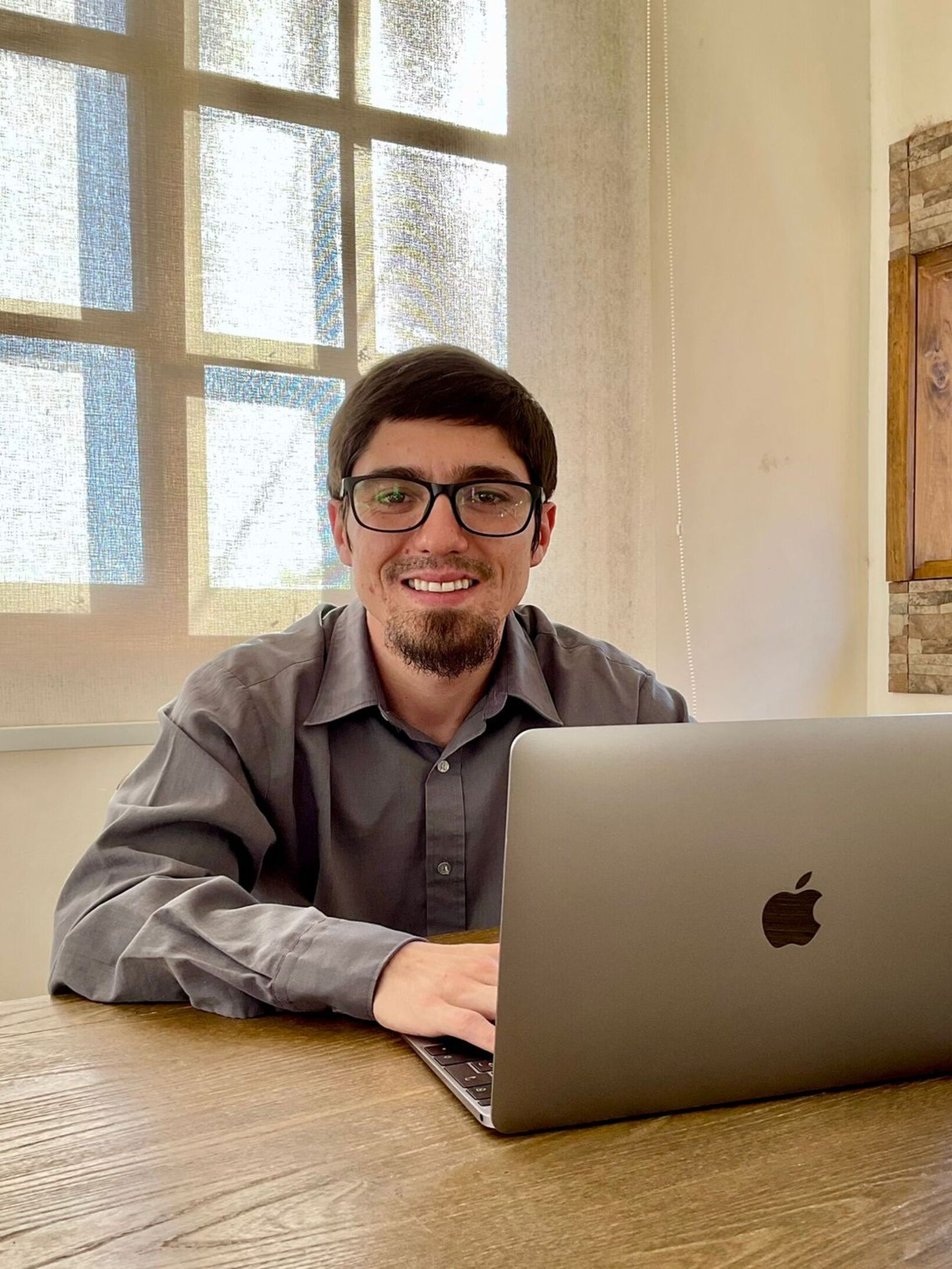
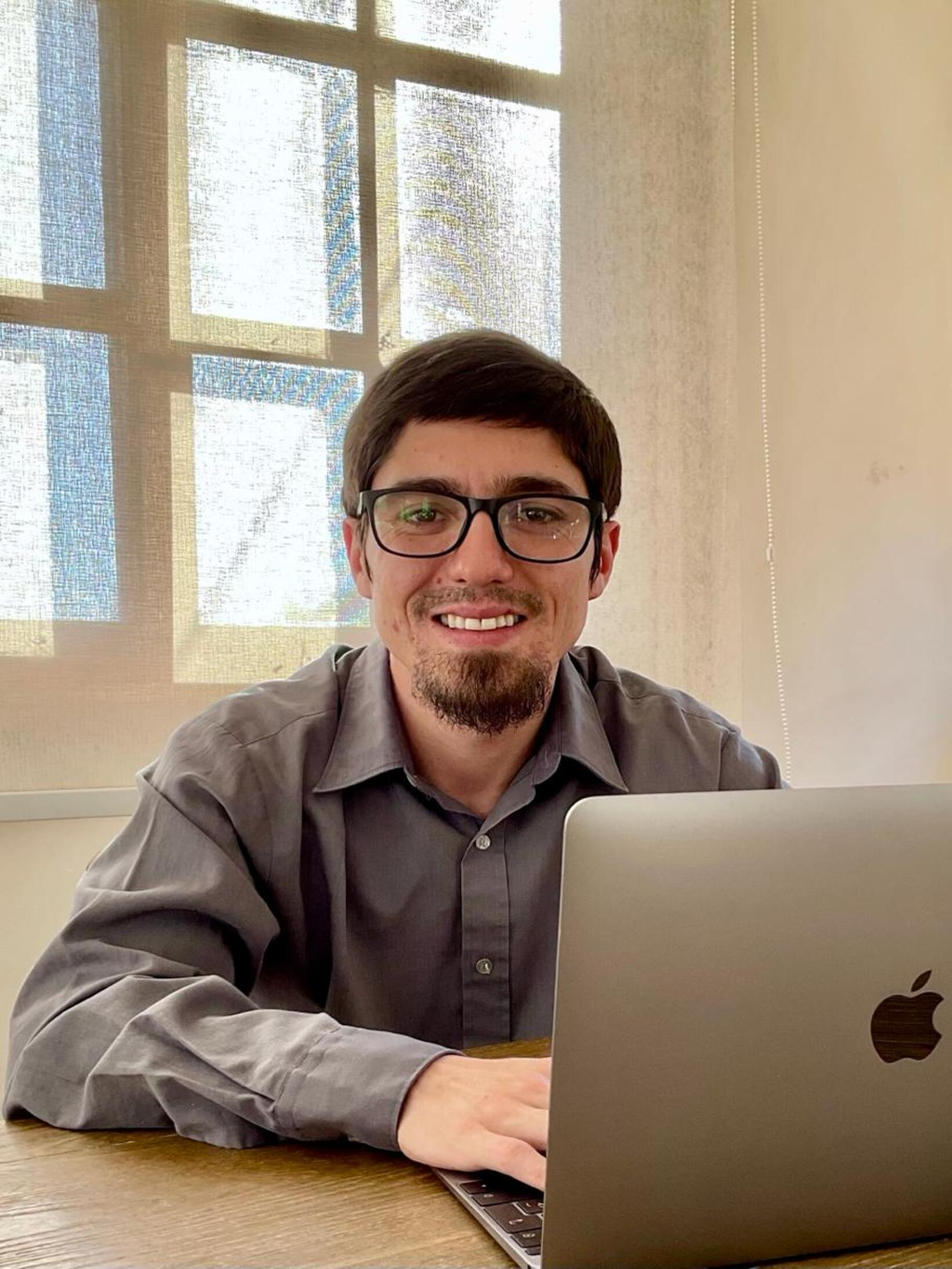
[style] - changed Matia's Image and matiasArticle Image

diff --git a/src/App.css b/src/App.css
@@ -132,7 +132,7 @@ html a {
     position: relative;
     z-index: 99;
     background-size: cover;
-    background-image: url("../src/images/section1Background.jpg");
+    background-image: url("../src/images/matiasArticle.jpg");
     height: 170px;
     display: flex; }
   .section1Container .subtitleContainer {

diff --git a/scss/_section1.scss b/scss/_section1.scss
@@ -4,7 +4,7 @@
     position: relative;
     z-index: 99;
     background-size: cover;
-    background-image: url("../src/images/section1Background.jpg");
+    background-image: url("../src/images/matiasArticle.jpg");
     height: 170px;
     display: flex;
   }
